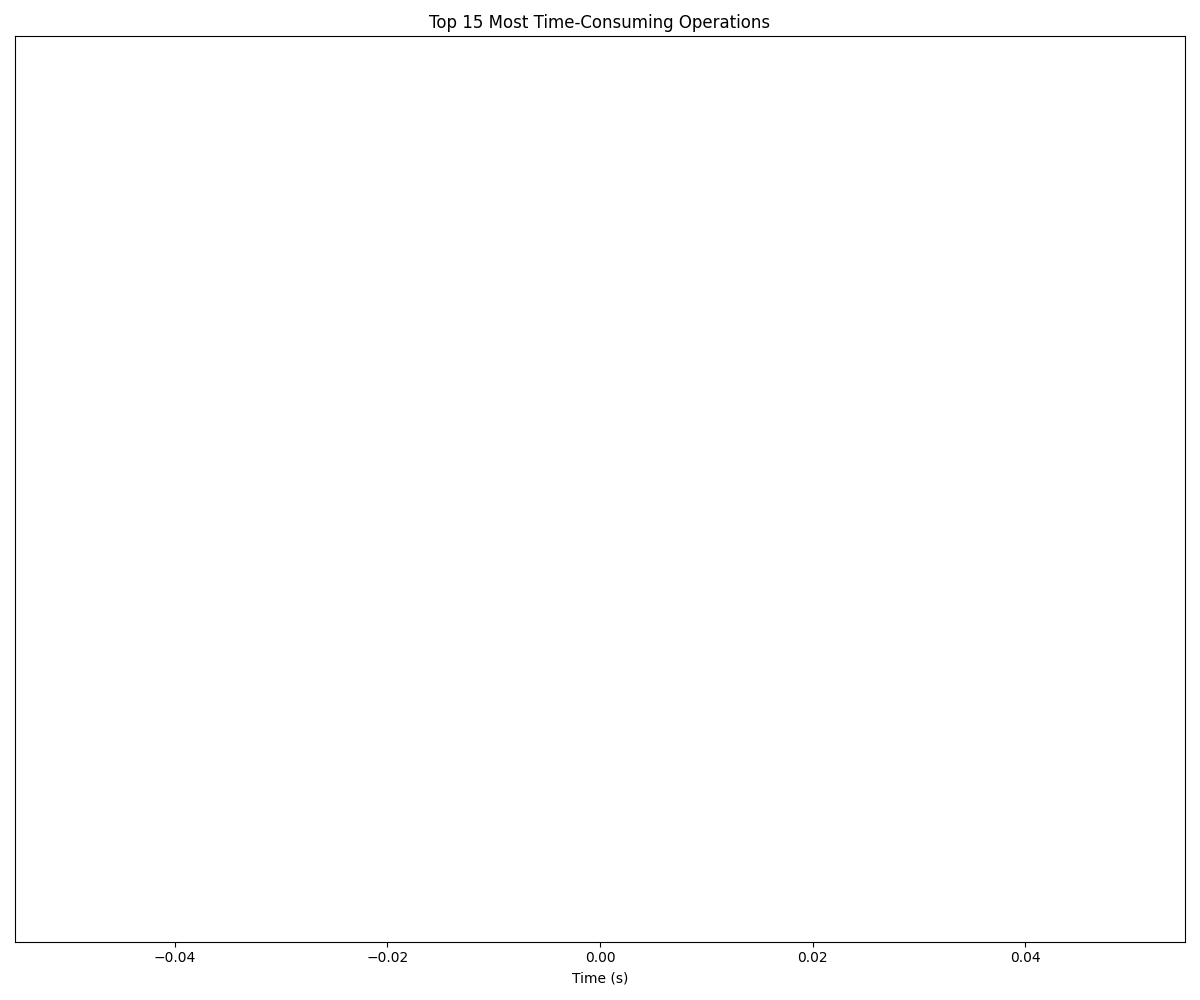
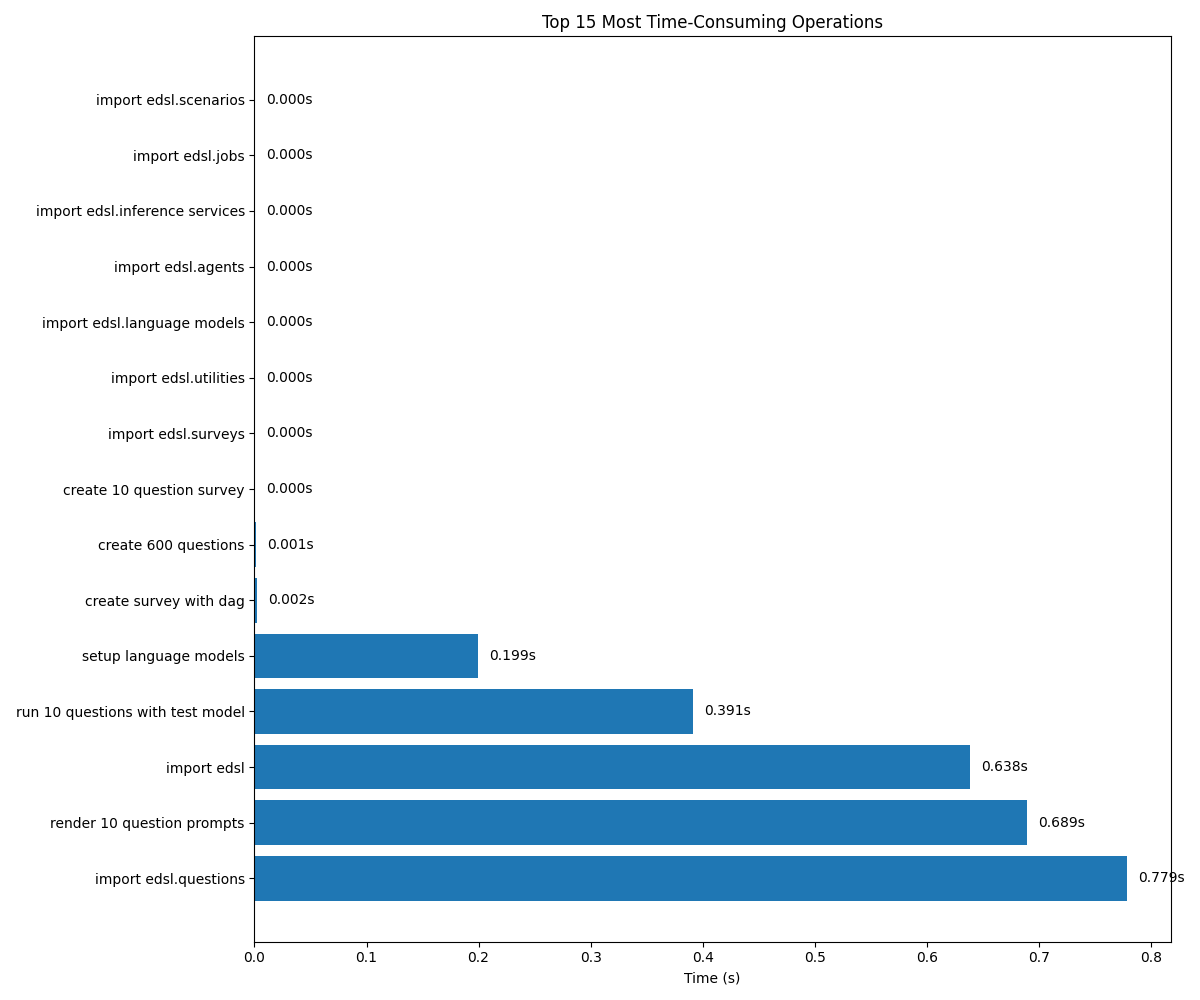
Scripts to time performance

diff --git a/benchmark_logs/reports/benchmark_report.html b/benchmark_logs/reports/benchmark_report.html
@@ -15,18 +15,42 @@
 </head>
 <body>
     <h1>EDSL Performance Benchmark Report</h1>
-    <p>Generated: 2025-03-12 23:22:16</p>
+    <p>Generated: 2025-03-13 05:04:18</p>
     <h2>System Information</h2>
     <table>
-        <tr><th>platform</th><td>test</td></tr>
+        <tr><th>platform</th><td>macOS-15.1.1-arm64-arm-64bit</td></tr>
+        <tr><th>python_version</th><td>3.11.0 (main, Dec 10 2024, 12:16:54) [Clang 16.0.0 (clang-1600.0.26.4)]</td></tr>
     </table>
+    <p>EDSL Version: 0.1.49.dev1</p>
     <h2>Timing Benchmark Results</h2>
     <table>
         <tr><th>Benchmark</th><th>Time (s)</th></tr>
+        <tr><td>create 10 question survey</td><td>0.0002</td></tr>
+        <tr><td>import edsl</td><td>0.6385</td></tr>
+        <tr><td>render 10 question prompts</td><td>0.6893</td></tr>
+        <tr><td>run 10 questions with test model</td><td>0.3914</td></tr>
+        <tr><td>star import</td><td>0.0000</td></tr>
     </table>
     <h2>Component Benchmark Results</h2>
     <table>
         <tr><th>Component</th><th>Time (s)</th></tr>
+        <tr><td>create 10 scenarios</td><td>0.0000</td></tr>
+        <tr><td>create 600 questions</td><td>0.0012</td></tr>
+        <tr><td>create survey with dag</td><td>0.0021</td></tr>
+        <tr><td>import edsl.agents</td><td>0.0001</td></tr>
+        <tr><td>import edsl.caching</td><td>0.0000</td></tr>
+        <tr><td>import edsl.dataset</td><td>0.0000</td></tr>
+        <tr><td>import edsl.inference services</td><td>0.0001</td></tr>
+        <tr><td>import edsl.interviews</td><td>0.0000</td></tr>
+        <tr><td>import edsl.jobs</td><td>0.0000</td></tr>
+        <tr><td>import edsl.language models</td><td>0.0001</td></tr>
+        <tr><td>import edsl.prompts</td><td>0.0000</td></tr>
+        <tr><td>import edsl.questions</td><td>0.7790</td></tr>
+        <tr><td>import edsl.results</td><td>0.0000</td></tr>
+        <tr><td>import edsl.scenarios</td><td>0.0000</td></tr>
+        <tr><td>import edsl.surveys</td><td>0.0001</td></tr>
+        <tr><td>import edsl.utilities</td><td>0.0001</td></tr>
+        <tr><td>setup language models</td><td>0.1991</td></tr>
     </table>
     <h2>Benchmark Charts</h2>
     <div class='chart-container'>

diff --git a/scripts/component_benchmark.py b/scripts/component_benchmark.py
@@ -82,7 +82,7 @@ def benchmark_question_types():
     """Benchmark creating different question types."""
     from edsl.questions import (
         QuestionMultipleChoice, QuestionFreeText, QuestionCheckBox,
-        QuestionNumerical, QuestionList, QuestionBudget
+        QuestionNumerical, QuestionList
     )
     
     questions = []
@@ -91,45 +91,39 @@ def benchmark_question_types():
     for i in range(100):
         # Multiple choice
         q1 = QuestionMultipleChoice(
-            name=f"mc_{i}", 
-            question=f"Multiple choice question {i}", 
-            options=[f"Option {j}" for j in range(5)]
+            question_name=f"mc_{i}", 
+            question_text=f"Multiple choice question {i}", 
+            question_options=[f"Option {j}" for j in range(5)]
         )
         
         # Free text
         q2 = QuestionFreeText(
-            name=f"ft_{i}",
-            question=f"Free text question {i}"
+            question_name=f"ft_{i}",
+            question_text=f"Free text question {i}"
         )
         
         # Checkbox
         q3 = QuestionCheckBox(
-            name=f"cb_{i}",
-            question=f"Checkbox question {i}",
-            options=[f"Option {j}" for j in range(5)]
+            question_name=f"cb_{i}",
+            question_text=f"Checkbox question {i}",
+            question_options=[f"Option {j}" for j in range(5)]
         )
         
         # Numerical
         q4 = QuestionNumerical(
-            name=f"num_{i}",
-            question=f"Numerical question {i}"
+            question_name=f"num_{i}",
+            question_text=f"Numerical question {i}"
         )
         
         # List
         q5 = QuestionList(
-            name=f"list_{i}",
-            question=f"List question {i}"
+            question_name=f"list_{i}",
+            question_text=f"List question {i}"
         )
         
         # Budget
-        q6 = QuestionBudget(
-            name=f"budget_{i}",
-            question=f"Budget question {i}",
-            options=[f"Option {j}" for j in range(5)],
-            budget=100
-        )
         
-        questions.extend([q1, q2, q3, q4, q5, q6])
+        questions.extend([q1, q2, q3, q4, q5])
     
     return questions
 
@@ -137,15 +131,16 @@ def benchmark_question_types():
 @timed
 def benchmark_large_survey_dag():
     """Benchmark creating a large survey with a complex DAG."""
-    from edsl import Survey, QuestionMultipleChoice, Rule
+    from edsl import Survey, QuestionMultipleChoice
+    from edsl.surveys import Rule
     
     # Create 100 questions
     questions = []
     for i in range(100):
         q = QuestionMultipleChoice(
-            name=f"q_{i}",
-            question=f"This is question {i}",
-            options=[f"Option {j}" for j in range(5)]
+            question_name=f"q_{i}",
+            question_text=f"This is question {i}",
+            question_options=[f"Option {j}" for j in range(5)]
         )
         questions.append(q)
     
@@ -153,14 +148,14 @@ def benchmark_large_survey_dag():
     survey = Survey(questions=questions)
     
     # Add some skip logic
-    for i in range(0, 98, 2):
-        # If the answer to question i is Option 0, skip the next question
-        rule = Rule(
-            name=f"skip_rule_{i}",
-            condition=f"q_{i} == 'Option 0'",
-            action=f"skip q_{i+1}"
-        )
-        survey.add_rule(rule)
+    # for i in range(0, 98, 2):
+    #     # If the answer to question i is Option 0, skip the next question
+    #     rule = Rule(
+    #         rule_name=f"skip_rule_{i}",
+    #         condition=f"q_{i} == 'Option 0'",
+    #         action=f"skip q_{i+1}"
+    #     )
+    #     survey.add_rule(rule)
     
     return survey
 
@@ -168,18 +163,13 @@ def benchmark_large_survey_dag():
 @timed
 def benchmark_model_setup():
     """Benchmark setting up various language models."""
-    from edsl.language_models import (
-        LanguageModel, AnthropicLanguageModel, OpenAILanguageModel, 
-        TestLanguageModel
-    )
+    from edsl import Model
     
     models = []
     
     # Create instances of various models
-    models.append(LanguageModel())
-    models.append(AnthropicLanguageModel("claude-3-opus-20240229"))
-    models.append(OpenAILanguageModel("gpt-4-turbo"))
-    models.append(TestLanguageModel())
+    models.append(Model())
+    models.append(Model("claude-3-opus-20240229"))
     
     return models
 

diff --git a/scripts/timing_benchmark.py b/scripts/timing_benchmark.py
@@ -59,9 +59,9 @@ def create_large_survey(num_questions=1000):
     questions = []
     for i in range(num_questions):
         q = QuestionMultipleChoice(
-            name=f"q_{i}",
-            question=f"This is question {i}",
-            options=[f"Option {j}" for j in range(5)]
+            question_name=f"q_{i}",
+            question_text=f"This is question {i}",
+            question_options=[f"Option {j}" for j in range(5)]
         )
         questions.append(q)
     
@@ -72,9 +72,10 @@ def create_large_survey(num_questions=1000):
 @timed
 def render_survey_prompts(survey):
     """Measure how long it takes to render all prompts in a survey."""
-    for question in survey.questions:
-        # Access prompt to force rendering
-        _ = question.prompt
+    # for question in survey.questions:
+    #     # Access prompt to force rendering
+    #     _ = question.prompt
+    survey.to_jobs().prompts()
     return None
 
 
@@ -82,16 +83,22 @@ def render_survey_prompts(survey):
 def run_survey_with_test_model(survey, num_questions=10):
     """Run a survey with a test model and measure performance."""
     from edsl import Survey
-    from edsl.language_models import TestLanguageModel
+    from edsl import Model
     
     # Use a subset of questions if needed
     if len(survey.questions) > num_questions:
         small_survey = Survey(questions=survey.questions[:num_questions])
     else:
         small_survey = survey
-        
+
+    from edsl.caching import Cache
+    c = Cache()    
+    from edsl.language_models import LanguageModel
+    m = LanguageModel.example(test_model=True, canned_response="Option 0")
+
+    #m = Model('test', canned_response = "Option 0")
     # Run with test model (no real API calls)
-    results = small_survey.run(model=TestLanguageModel())
+    results = small_survey.by(m).run(disable_remote_inference = True, disable_remote_cache = True, cache = c)
     return results
 
 

diff --git a/edsl/logger.py b/edsl/logger.py
@@ -13,13 +13,13 @@ from pathlib import Path
 
 # Create the logger
 logger = logging.getLogger("edsl")
-logger.setLevel(logging.INFO)  # Default level
+logger.setLevel(logging.ERROR)  # Default level
 
 # Avoid adding handlers multiple times when imported in different modules
 if not logger.handlers:
     # Console handler
     console_handler = logging.StreamHandler(sys.stdout)
-    console_handler.setLevel(logging.INFO)
+    console_handler.setLevel(logging.ERROR)
     console_formatter = logging.Formatter('%(asctime)s - %(name)s - %(levelname)s - %(message)s')
     console_handler.setFormatter(console_formatter)
     logger.addHandler(console_handler)
@@ -34,7 +34,7 @@ if not logger.handlers:
             maxBytes=5 * 1024 * 1024,  # 5 MB
             backupCount=3
         )
-        file_handler.setLevel(logging.INFO)
+        file_handler.setLevel(logging.ERROR)
         file_formatter = logging.Formatter('%(asctime)s - %(name)s - %(levelname)s - %(message)s')
         file_handler.setFormatter(file_formatter)
         logger.addHandler(file_handler)
@@ -112,7 +112,7 @@ def configure_from_config():
     - ERROR
     - CRITICAL
     
-    If no configuration is found, the default level (INFO) is maintained.
+    If no configuration is found, the default level (ERROR) is maintained.
     """
     try:
         import os

diff --git a/edsl/config/config_class.py b/edsl/config/config_class.py
@@ -52,7 +52,7 @@ CONFIG_MAP = {
         "info": "This config var determines whether to fetch prices for tokens used in remote inference",
     },
     "EDSL_LOG_LEVEL": {
-        "default": "INFO",
+        "default": "ERROR",
         "info": "This config var determines the logging level for the EDSL package (DEBUG, INFO, WARNING, ERROR, CRITICAL).",
     },
     "EDSL_MAX_ATTEMPTS": {

diff --git a/edsl/inference_services/services/test_service.py b/edsl/inference_services/services/test_service.py
@@ -56,7 +56,7 @@ class TestService(InferenceServiceABC):
 
                     return self.canned_response
                 else:
-                    return "Hello, world"
+                    return "Hello, world X"
 
             async def async_execute_model_call(
                 self,
